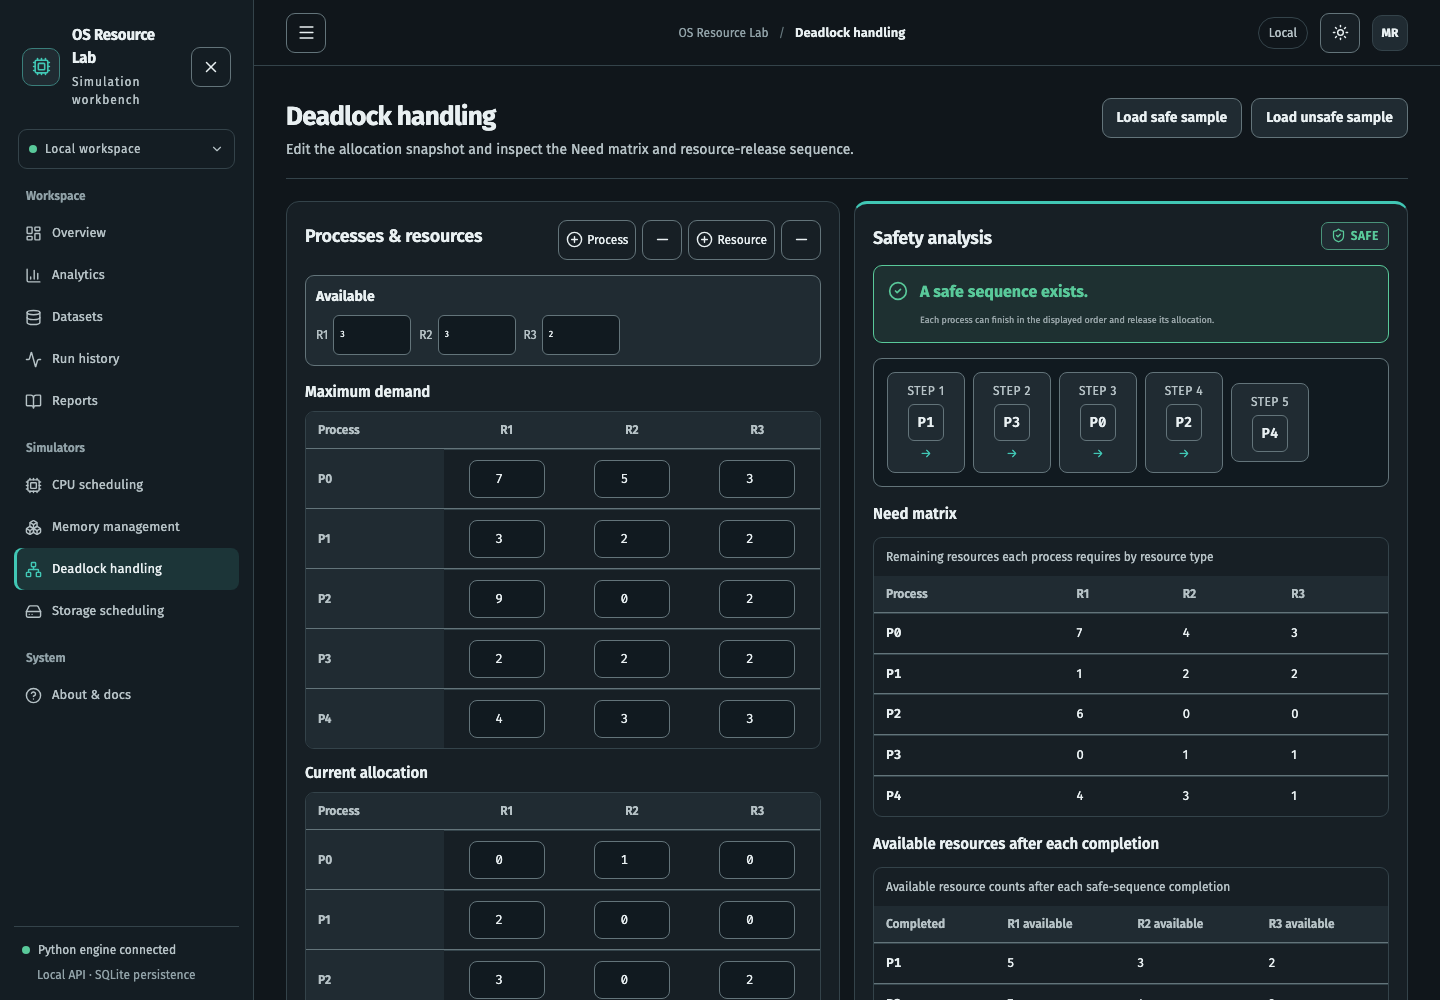
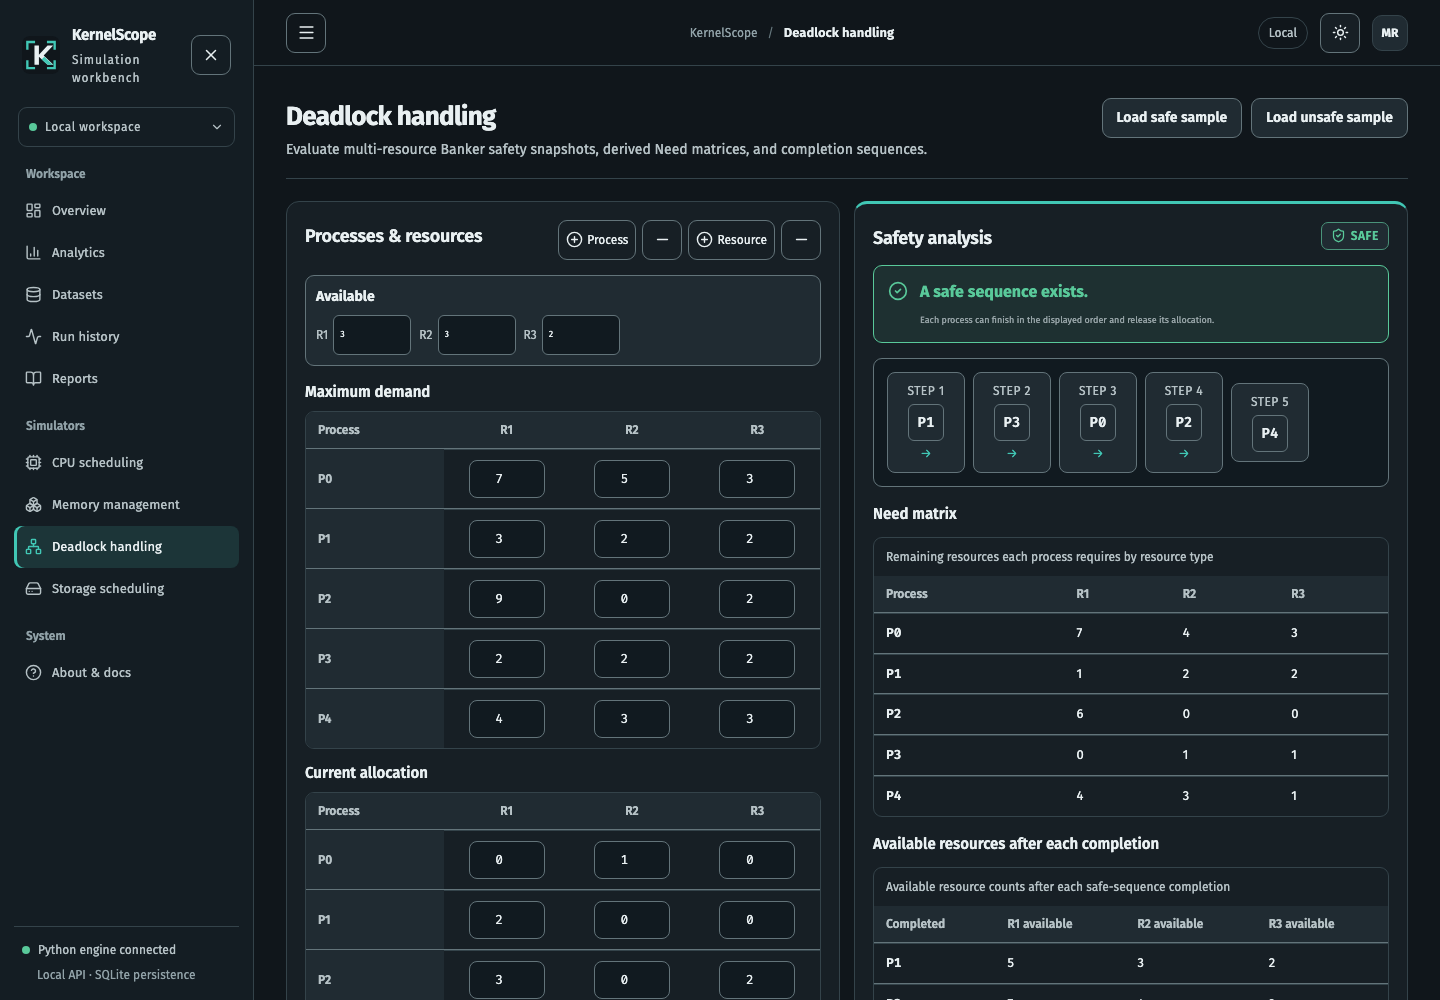
test(evidence): refresh 13 Playwright Chromium screenshots and evidence index

diff --git a/evidence/INDEX.md b/evidence/INDEX.md
@@ -1,21 +1,21 @@
-# Evidence index
+# KernelScope: Browser evidence index
 
-The 13 PNG files inside `evidence/browser/` are real Chromium screenshots captured automatically by Playwright while exercising the running OS Resource Lab web app. Every screen rendered live FastAPI responses backed by an isolated temporary SQLite database seeded with `Bundled Baseline` and `Bundled Unsafe`. Beyond these captures, the Playwright suite checked all ten routes at 375, 768, 1024, and 1440 CSS pixels for layout bounds and horizontal overflow; the two responsive files below show the narrowest and widest dashboard views.
+The 13 PNG files inside `evidence/browser/` are Chromium screenshots captured automatically by Playwright (`frontend/e2e/acceptance.pw.ts`) from the running KernelScope web workbench. Every capture rendered live FastAPI responses backed by an isolated temporary SQLite database seeded with `Bundled Baseline` and `Bundled Unsafe`. In addition to these captures, Playwright verified all ten routes across `375, 768, 1024, and 1440` CSS pixel widths for control visibility and zero page-level horizontal overflow.
 
-| Screenshot | Route / module | What it verifies |
+| Screenshot | Route / view | Verified UI state |
 |---|---|---|
-| `browser/dashboard-dark.png` | Dashboard (`/`) | SQLite workspace counters and waiting-time chart in dark theme |
-| `browser/cpu-scheduling.png` | CPU scheduling (`/cpu`) | Gantt timeline with idle/process segments and mean waiting/turnaround metrics |
-| `browser/memory-resident-order.png` | Memory management (`/memory`) | Resident-page order, selected fault step, and evicted-page note |
-| `browser/banker-safe.png` | Deadlock handling (`/deadlock`) | `SAFE` badge, completion order, and available-resource trace |
-| `browser/banker-safe-matrices.png` | Deadlock handling (`/deadlock`) | Allocation, Maximum, and computed Need matrices |
-| `browser/banker-unsafe.png` | Deadlock handling (`/deadlock`) | `UNSAFE` badge and unfinished process list |
-| `browser/disk-scan-upper-boundary.png` | Disk scheduling (`/disk`) | SCAN route where cylinder `199` is both a requested stop and the upper physical boundary |
-| `browser/analytics-persisted-results.png` | Analytics (`/analytics`) | Comparison chart and table loaded from a persisted integrated run |
-| `browser/reports-persisted-results.png` | Reports (`/reports`) | Reopened integrated report with JSON and CSV export links |
-| `browser/theme-dark.png` | Theme check (`/`) | Storage movement chart rendered in dark theme |
-| `browser/theme-light.png` | Theme check (`/`) | Same storage movement chart after switching to light theme |
-| `browser/responsive-375.png` | Mobile width (`/`) | Dashboard at 375 px width with storage analytics selected |
-| `browser/responsive-1440.png` | Desktop width (`/`) | Dashboard at 1440 px width with storage analytics selected |
+| `browser/dashboard-dark.png` | Overview (`/`) | KernelScope shell, SQLite workspace counters, and CPU waiting-time chart in dark theme |
+| `browser/cpu-scheduling.png` | CPU scheduling (`/cpu`) | Backend Gantt timeline with `IDLE`/process spans and mean waiting/turnaround cards |
+| `browser/memory-resident-order.png` | Memory management (`/memory`) | `Resident-page order` cells, selected `FAULT` step, and evicted-page banner |
+| `browser/banker-safe.png` | Deadlock handling (`/deadlock`) | `SAFE` verdict, `P1 -> P3 -> P0 -> P2 -> P4` sequence, and post-release resource trace |
+| `browser/banker-safe-matrices.png` | Deadlock handling (`/deadlock`) | `Maximum demand`, `Current allocation`, and derived `Need` matrices |
+| `browser/banker-unsafe.png` | Deadlock handling (`/deadlock`) | `UNSAFE` verdict and unfinished process list (`P0, P1`) |
+| `browser/disk-scan-upper-boundary.png` | Disk scheduling (`/disk`) | `SCAN` upward route where cylinder `199` is marked `Request + SCAN endpoint` |
+| `browser/analytics-persisted-results.png` | Analytics (`/analytics`) | Within-run policy chart and table loaded from a persisted integrated simulation |
+| `browser/reports-persisted-results.png` | Reports (`/reports`) | `KERNELSCOPE · EXECUTION REPORT` (`KS`) view with JSON and CSV export actions |
+| `browser/theme-dark.png` | Theme toggle (`/`) | KernelScope brand mark and storage movement chart in dark theme |
+| `browser/theme-light.png` | Theme toggle (`/`) | Same view after switching to light theme (`data-theme="light"`) |
+| `browser/responsive-375.png` | Mobile width (`/`) | Dashboard at `375 px` viewport width with storage analytics selected |
+| `browser/responsive-1440.png` | Desktop width (`/`) | Dashboard at `1440 px` viewport width with storage analytics selected |
 
-The disk e2e test also confirms that cylinder `0` is labeled as both a request stop and the lower SCAN boundary when sweeping downward. Full e2e assertions live in `frontend/e2e/acceptance.pw.ts`, with test output recorded in `docs/web_test_results.txt`.
+The disk acceptance test also confirms that cylinder `0` is classified as both a request stop and the lower physical `SCAN` boundary when sweeping downward, and the theme test verifies `<title>KernelScope</title>`, `/favicon.svg`, `/favicon.ico`, and `/kernelscope-mark.svg` natural image dimensions in both themes. Full test details sit in `docs/web_test_results.txt`.
